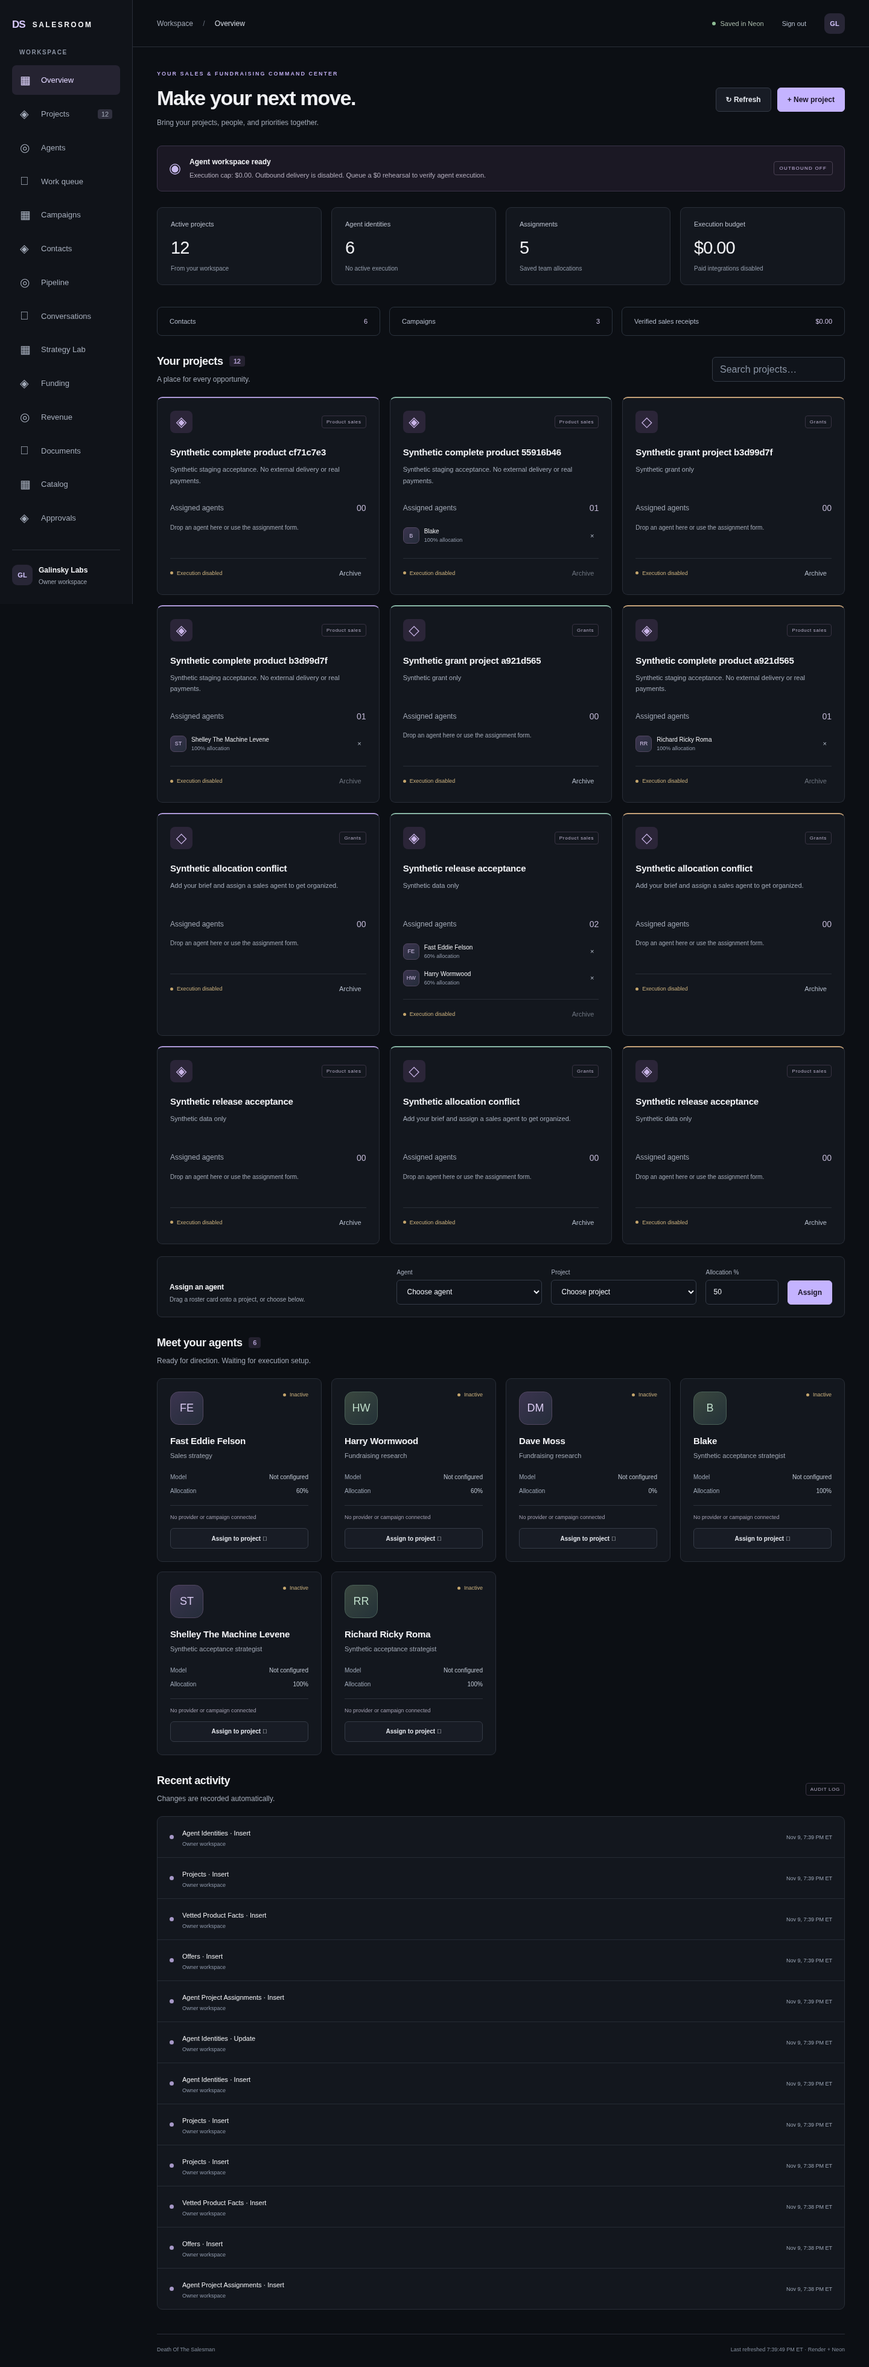
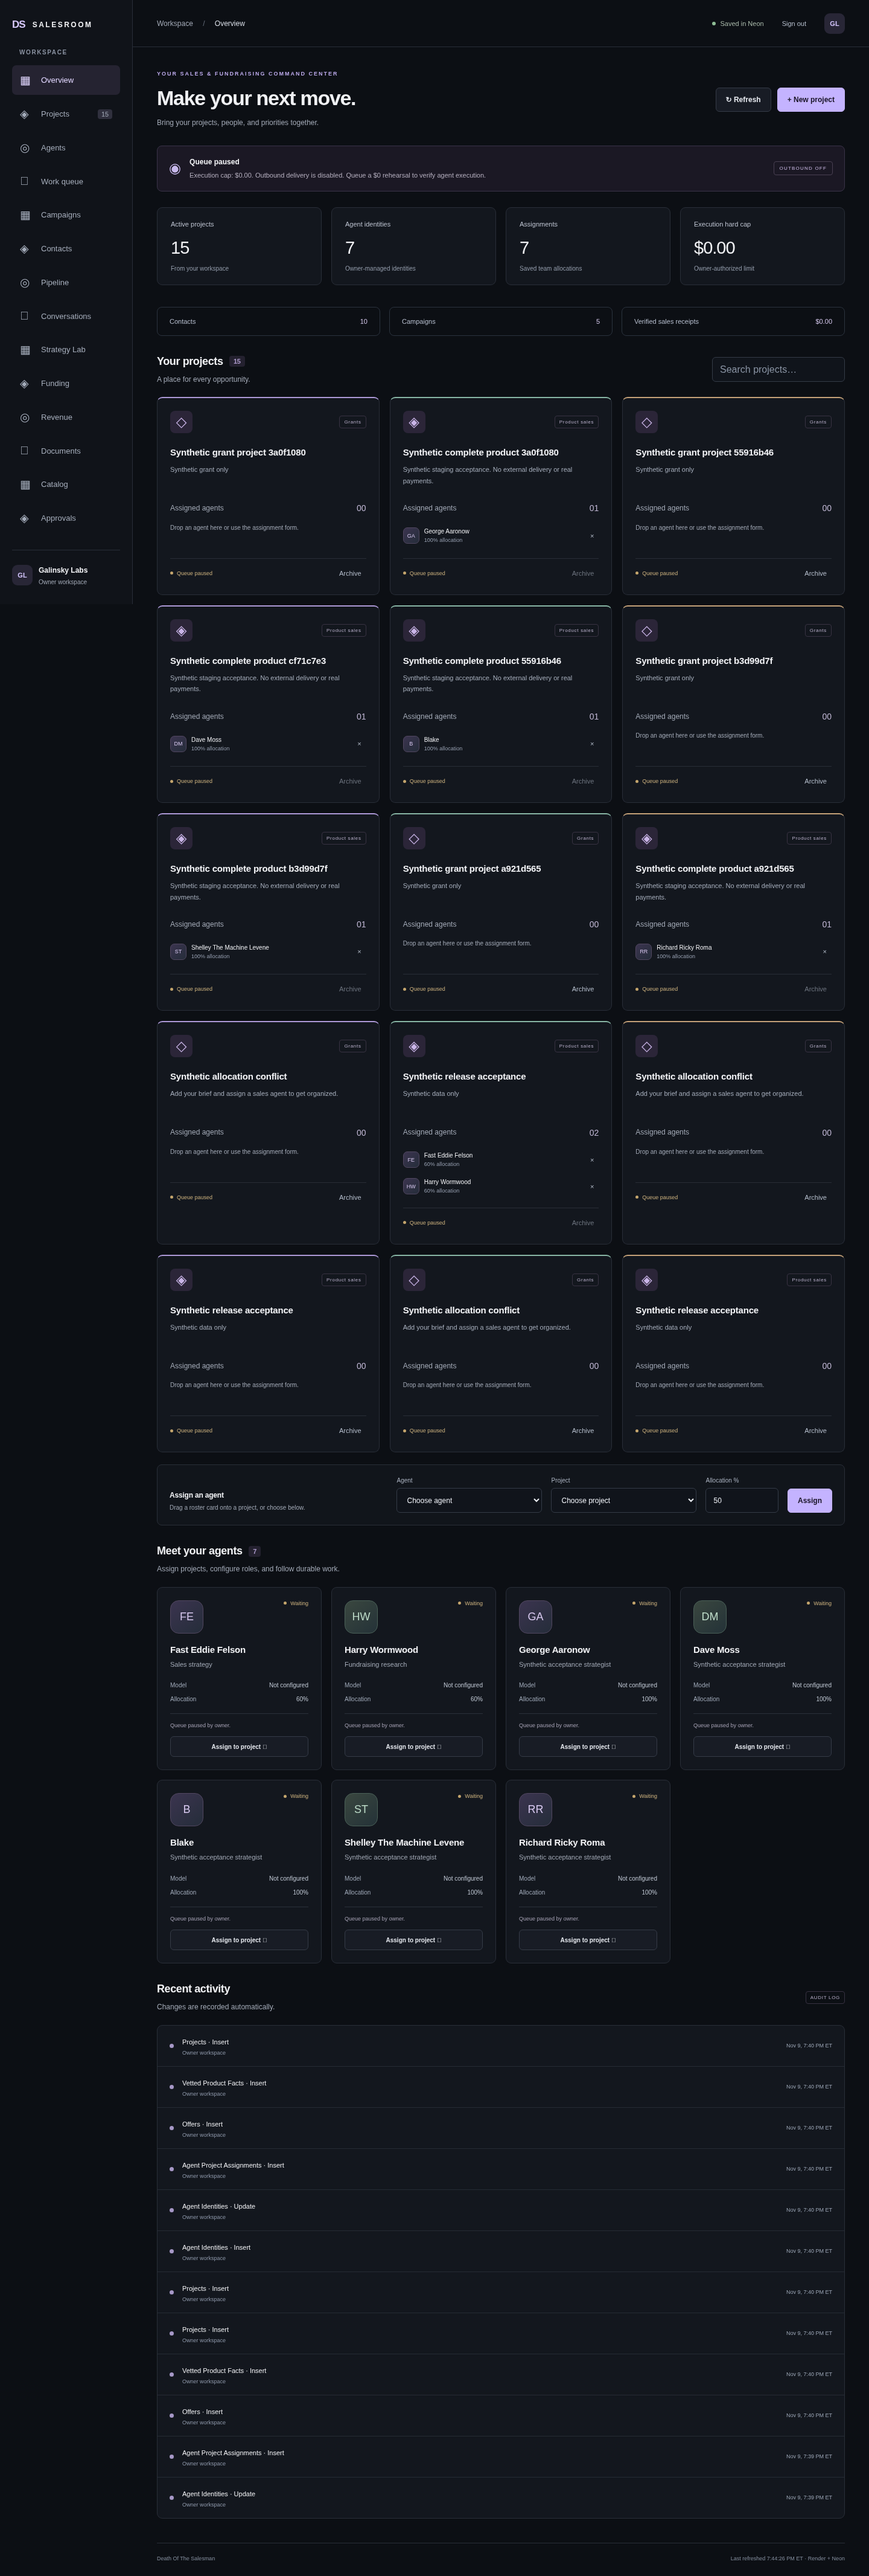
DOTS-031: Record verified PR mapping and final staging evidence

diff --git a/apps/web/app/live-workspace.tsx b/apps/web/app/live-workspace.tsx
@@ -60,6 +60,13 @@ export function LiveWorkspace({ initial, initialOperations }: { initial: Workspa
   function avatar(agent: Agent, small = false) {
     return <span className={`live-avatar ${small ? "small" : ""}`} aria-hidden="true">{agent.display_name.split(" ").map(w=>w[0]).slice(0,2).join("")}</span>;
   }
+  function agentState(agent:Agent) {
+    if(agent.status!=="active")return {label:"Inactive",className:"inactive",reason:"Activate this identity in Settings."};
+    const job=operations?.records.jobs?.find(job=>job.agent_identity_id===agent.id&&job.lease_is_live&&Date.parse(job.lease_expires_at)>evidenceNow);
+    if(job)return {label:"Running",className:"running",reason:"Live worker lease and heartbeat verified."};
+    const waiting=operations?.records.jobs?.find(job=>job.agent_identity_id===agent.id&&["queued","waiting"].includes(job.state));
+    return {label:"Waiting",className:"waiting",reason:waiting?.last_reason?.replaceAll("_"," ")??(operations?.records.controls?.[0]?.paused?"Queue paused by owner.":"Ready for queued work.")};
+  }
   function projectCard(project: Project, index: number) {
     const assigned = data.assignments.filter(a=>a.project_id===project.id);
     return <article key={project.id} className={`project-card accent-${index%3} ${dragging ? "drop-ready" : ""}`}
@@ -116,13 +123,13 @@ export function LiveWorkspace({ initial, initialOperations }: { initial: Workspa
             <label>Project<select aria-label="Project" required value={selectedProject} onChange={e=>setSelectedProject(e.target.value)}><option value="">Choose project</option>{data.projects.map(p=><option key={p.id} value={p.id}>{p.label}</option>)}</select></label>
             <label>Allocation %<input type="number" min={1} max={100} step={1} required value={allocation} onChange={e=>setAllocation(Number(e.target.value))} /></label><button disabled={busy} className="live-primary">Assign</button></form>}
         </section>}
-        {(view==="Overview" || view==="Agents") && <section aria-labelledby="roster-title"><div className="live-section-heading"><div><h2 id="roster-title">Meet your agents <span>{data.agents.length}</span></h2><p className="muted">Ready for direction. Waiting for execution setup.</p></div>
+        {(view==="Overview" || view==="Agents") && <section aria-labelledby="roster-title"><div className="live-section-heading"><div><h2 id="roster-title">Meet your agents <span>{data.agents.length}</span></h2><p className="muted">Assign projects, configure roles, and follow durable work.</p></div>
           {view==="Agents" && <input className="live-search" type="search" aria-label="Search agents" placeholder="Find an agent…" value={query} onChange={e=>setQuery(e.target.value)} />}</div>
           <div className="live-agent-grid">{(view==="Agents" ? agents : data.agents).map(agent=><article key={agent.id} className="live-agent-card" draggable={!busy && agent.status==="active"}
             onDragStart={e=>{e.dataTransfer.setData("text/plain",agent.id);e.dataTransfer.effectAllowed="copy";setDragging(agent.id);}}
-            onDragEnd={()=>setDragging(null)}><div className="agent-portrait">{avatar(agent)}<span className="waiting-label"><i /> {operations?.records.jobs?.some(job=>job.agent_identity_id===agent.id&&job.lease_is_live&&Date.parse(job.lease_expires_at)>evidenceNow)?"Running":operations?.records.jobs?.some(job=>job.agent_identity_id===agent.id&&['queued','waiting'].includes(job.state))?"Waiting":"Inactive"}</span></div><h3>{agent.display_name}</h3><p className="muted">{operations?.records.agentConfig?.find(config=>config.agent_identity_id===agent.id)?.role_label??(agent.display_name.includes("Eddie") ? "Sales strategy" : "Fundraising research")}</p>
+            onDragEnd={()=>setDragging(null)}><div className="agent-portrait">{avatar(agent)}<span className={`waiting-label ${agentState(agent).className}`} title={agentState(agent).reason}><i /> {agentState(agent).label}</span></div><h3>{agent.display_name}</h3><p className="muted">{operations?.records.agentConfig?.find(config=>config.agent_identity_id===agent.id)?.role_label??(agent.display_name.includes("Eddie") ? "Sales strategy" : "Fundraising research")}</p>
             <div className="agent-detail-line"><span>Model</span><strong>{operations?.records.agentConfig?.find(config=>config.agent_identity_id===agent.id)?.provider_id??"Not configured"}</strong></div><div className="agent-detail-line"><span>Allocation</span><strong>{data.assignments.filter(a=>a.agent_identity_id===agent.id).reduce((sum,a)=>sum+a.allocation_basis_points,0)/100}%</strong></div>
-            <p className="agent-foot">No provider or campaign connected</p><button className="live-secondary" onClick={()=>{setSelectedAgent(agent.id);setView("Projects");}}>Assign to project ↗</button></article>)}</div>
+            <p className="agent-foot">{agentState(agent).reason}</p><button className="live-secondary" onClick={()=>{setSelectedAgent(agent.id);setView("Projects");}}>Assign to project ↗</button></article>)}</div>
         </section>}
         {view==="Overview" && <section className="activity-section"><div className="live-section-heading"><div><h2>Recent activity</h2><p className="muted">Changes are recorded automatically.</p></div><span className="category-tag">AUDIT LOG</span></div>
           {data.activity.length ? <ol className="activity-list">{data.activity.map(item=><li key={item.id}><span className="activity-dot" aria-hidden="true" /><div><strong>{item.event_type.replaceAll("_"," ").replace("."," · ")}</strong><small>Owner workspace</small></div><time dateTime={item.occurred_at}>{new Date(item.occurred_at).toLocaleString("en-US",{timeZone:"America/New_York",month:"short",day:"numeric",hour:"numeric",minute:"2-digit"})} ET</time></li>)}</ol> : <p className="muted">Your first workspace change will appear here.</p>}</section>}

diff --git a/apps/web/app/live-workspace.css b/apps/web/app/live-workspace.css
@@ -64,3 +64,5 @@
 @media(max-width:1150px){.live-sidebar{width:185px;padding:28px 15px}.live-body{margin-left:185px}.live-topbar{padding:0 26px}.live-main{padding:30px 26px}.live-heading{align-items:start}.live-frame h1{font-size:28px}.project-board{grid-template-columns:repeat(2,minmax(0,1fr))}.live-agent-grid{grid-template-columns:repeat(2,minmax(0,1fr))}.assignment-form{flex-wrap:wrap}.assignment-form>div{flex-basis:100%}.live-stats{gap:10px}.live-stats article{padding:17px 15px}}
 @media(max-width:767px){.live-sidebar{position:static;width:auto;padding:18px 20px;border-right:0;border-bottom:1px solid var(--live-border)}.live-sidebar .live-brand{margin-bottom:20px}.sidebar-caption,.sidebar-bottom{display:none}.live-sidebar nav{display:flex;gap:5px}.live-sidebar nav button{padding:9px 10px;gap:6px;font-size:11px}.live-sidebar nav button span{font-size:15px;width:auto}.live-sidebar nav button small{display:none}.live-body{margin-left:0}.live-topbar{height:55px;padding:0 20px}.database-badge{font-size:9px}.topbar-actions{gap:10px}.owner-icon{display:none}.breadcrumb{font-size:10px}.breadcrumb span{margin:0 8px}.live-main{padding:27px 20px 20px}.live-heading{display:block}.heading-actions{margin-top:20px}.live-frame h1{font-size:28px}.execution-banner{padding:14px;gap:10px}.execution-banner p{font-size:10px}.mode-tag{display:none}.live-stats{grid-template-columns:repeat(2,minmax(0,1fr));gap:10px;margin-bottom:25px}.live-stats strong{font-size:27px}.project-board{grid-template-columns:1fr}.live-section-heading{align-items:start;flex-wrap:wrap;gap:12px}.live-search{width:100%}.live-frame h2{font-size:17px}.live-agent-grid{grid-template-columns:1fr}.assignment-form{display:grid;grid-template-columns:1fr 1fr;padding:16px;gap:15px}.assignment-form>div{grid-column:1/-1}.assignment-form label:nth-of-type(1),.assignment-form label:nth-of-type(2){grid-column:1/-1}.assignment-form label{width:100%}.activity-list li{padding:14px 13px;gap:10px}.activity-list time{max-width:90px;text-align:right;line-height:1.6}.activity-list strong{font-size:10px}.live-footer{display:grid;gap:10px}.form-columns{grid-template-columns:1fr;gap:8px}.login-panel{padding:30px 24px}.login-panel h1{font-size:29px}}
 @media(prefers-reduced-motion:reduce){.live-frame *,.login-shell *{scroll-behavior:auto;transition:none;animation:none}}
+
+.waiting-label.running{color:#9acba8}.waiting-label.running i{background:#9acba8}.waiting-label.inactive{color:#ef9696}.waiting-label.inactive i{background:#ef9696}

diff --git a/docs/OPERATIONS_RUNBOOK.md b/docs/OPERATIONS_RUNBOOK.md
@@ -65,7 +65,7 @@ before activation. Configure secrets through Render, never through a public docu
   business address. Enable the workspace policy, approve the campaign revision, approve
   exact message content and verified facts, then explicitly dispatch each message.
   Suppression, consent, cadence, business hours, sender, limits and budgets are rechecked.
-  `RESEND_WEBHOOK_SECRET` verifies delivery/bounce/complaint receipts at
+  `EMAIL_WEBHOOK_SECRET` verifies delivery/bounce/complaint receipts at
   `/api/webhooks/resend`. `EMAIL_RECEIVING_ENABLED=true` enables verified inbound retrieval
   using that same provider account; receiving a message never grants marketing consent.
 - Payments: `PAYMENTS_ENABLED`, `STRIPE_SECRET_KEY`, `OWNER_MERCHANT_AUTHORIZATION_ID`,
